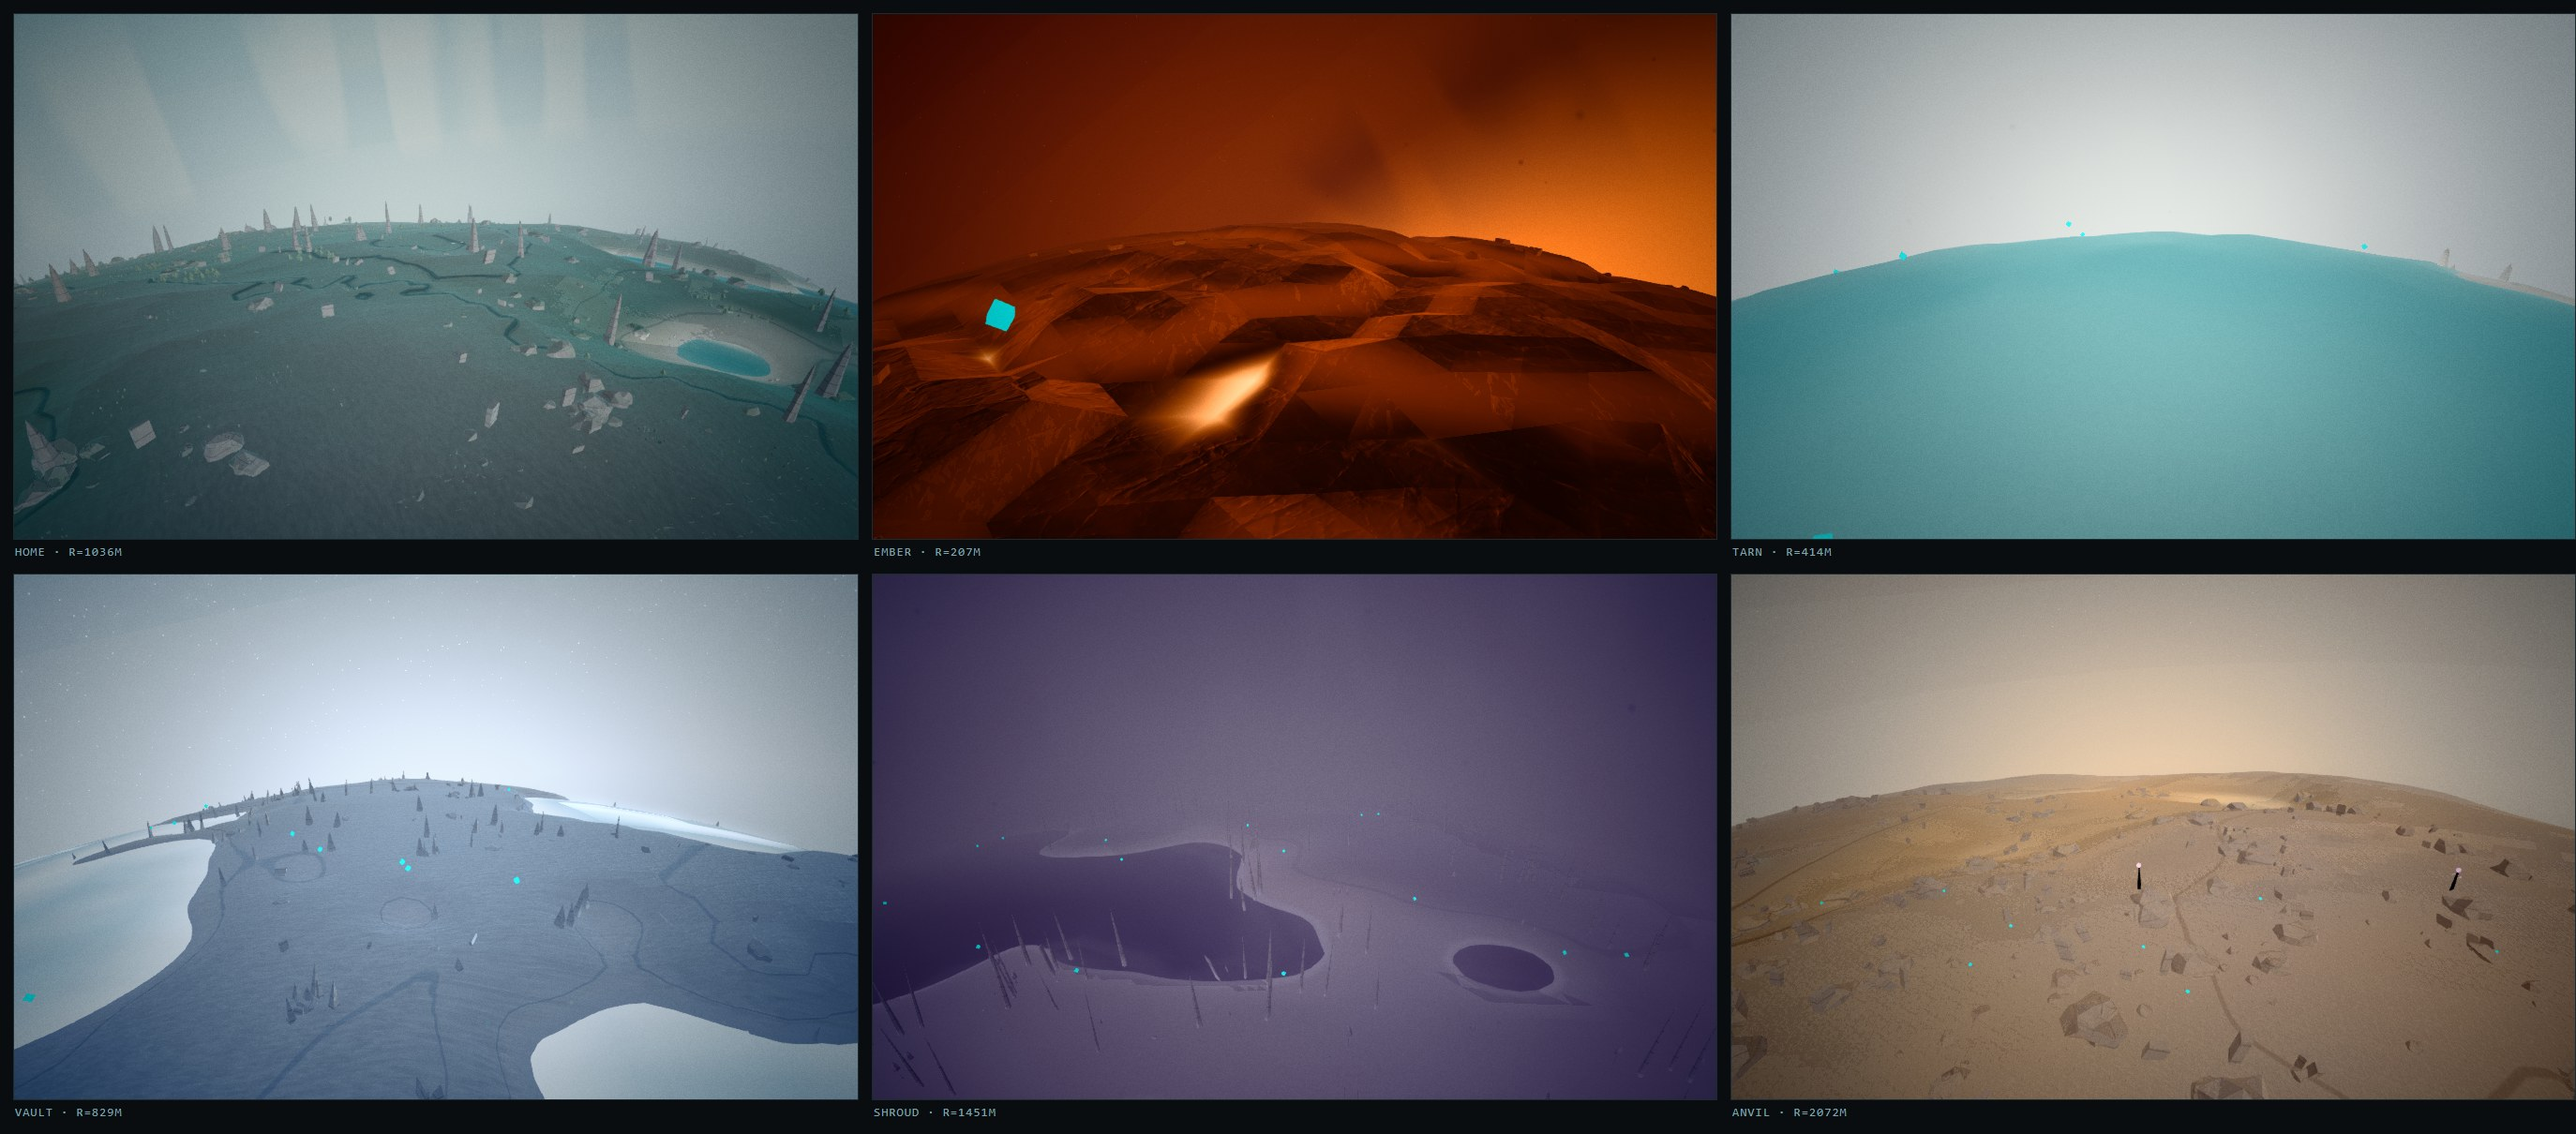
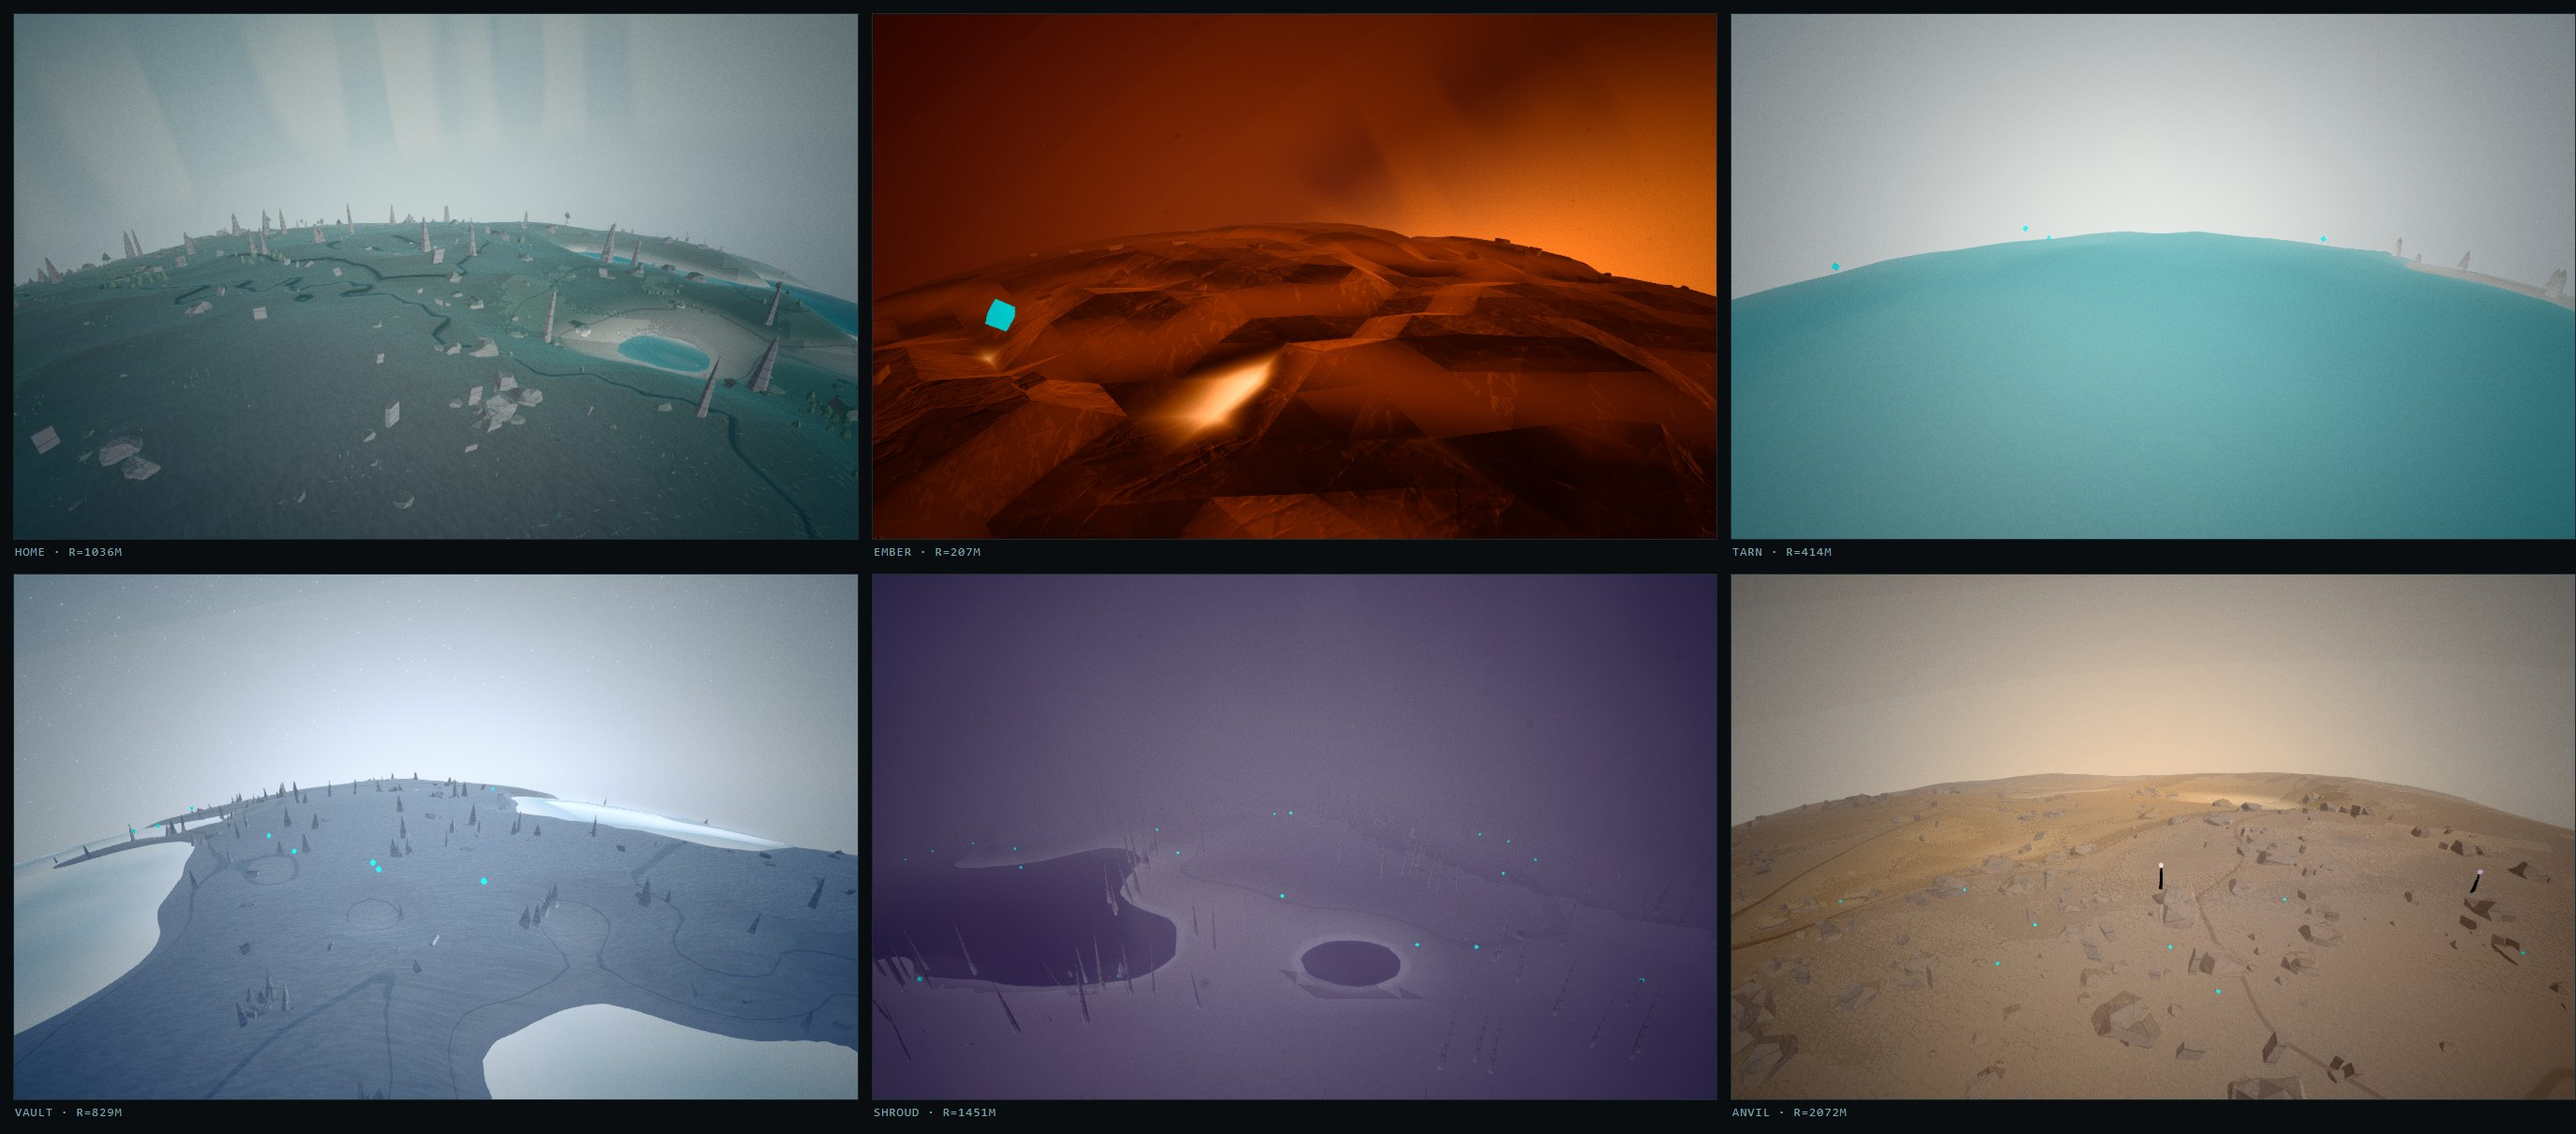
Surveyor: Shroud loses its tree layer, and the caching pattern gets a rule
Spans: games/surveyor, <root> — the CLAUDE.md rule generalises a bug class that
the surveyor changes are the third instance of, so it does not belong under
games/surveyor

SHROUD HAS NO TREE LAYER NOW. A tree layer is a canopy: enough of them at enough
density that a world reads as wooded, which is Home's job. A mid-density stand
of thin trees was turning the murk into a forest with poor visibility rather
than into a place you cannot see. The hero layer carries Shroud alone at 0.62,
nearly twice the density it has anywhere else and still under one plant per
leaf. Rare and large is the read.

TIER NOW DROPS `shrub` AND ONLY `shrub`. The first cut dropped hero too, on the
assumption that the biggest form must be the expensive one. It is the opposite:
hero is two attempts per leaf against cover's 260, so it is the cheapest layer
in the stack by two orders of magnitude and the highest value per triangle — it
is a landmark. It is not a uniform loss either, now that Shroud carries its
whole character there: a low tier would have been ground cover in fog with no
reason to look up.

CLAUDE.md GAINS A RULE for the bug class that has now cost three separate bugs —
the sky domes, Trails, and SURVEYOR.surface — every one an object reading
craft.surf.planet once in a constructor and then answering for the boot world
forever. Anything per-world is constructed inside World or re-pointed in swapTo,
and there is no third option. Never expose a cached copy of something that
[…]

diff --git a/games/surveyor/js/tune.js b/games/surveyor/js/tune.js
@@ -249,8 +249,16 @@ export const TIER = {
      between them they are what makes a world look planted at all.
      Degrading a layer instead would mean shipping a worse tree, and a
      worse tree is visible in a way a missing shrub is not. */
+  /* LOW DROPS `shrub` AND ONLY `shrub`.
+     The first cut dropped hero as well, on the assumption that the biggest form
+     must be the expensive one. It is the opposite: hero is authored at two
+     attempts per leaf against cover's 260, so it is the cheapest layer in the
+     stack by two orders of magnitude and the highest value per triangle — it is
+     a landmark. And dropping it is not a uniform loss. Shroud carries its whole
+     character in that layer and nothing else, so a low tier there would have
+     been ground cover in fog and no reason to look up. */
   floraLayers: {
-    low: ['cover', 'tree'],
+    low: ['cover', 'tree', 'hero'],
     high: ['cover', 'shrub', 'tree', 'hero'],
   },
 };
@@ -1895,21 +1903,24 @@ export const PLANETS = {
        growing rather than as a lawn, which is the only version of vegetation
        that belongs on a world whose whole character is that you cannot see.
        Violet, so it is the murk's own colour and not an import. */
-    /* SPARSE, TALL AND STRANGE. Low density, high impact: things that loom out
-       of the murk at close range and are gone again. Almost no ground cover —
-       a lawn under that fog would be invisible and would cost the same as one
-       you can see — and the trees are thin and very tall so they resolve as a
-       silhouette before anything else does. */
+    /* SPARSE, TALL AND STRANGE, and NO TREE LAYER.
+       A tree layer is a canopy: enough of them at enough density that the world
+       reads as wooded, which is Home's job. What Shroud wants is a few looming
+       things at low density — rare and large IS the read, and a mid-density
+       stand of thin trees was quietly turning the murk into a forest with poor
+       visibility rather than into a place you cannot see.
+       So the hero layer carries it alone, at nearly twice the density it has
+       anywhere else, and is still under one plant per leaf. Ground cover stays
+       at a tenth: a lawn under that fog would be invisible and would cost the
+       same as one you can see. */
     flora: {
       density: 1.0,
       layers: {
         cover: { density: 0.10, band: [0.02, 0.22], color: [0.396, 0.325, 0.478],
           height: [1.2, 3.0], width: [0.05, 0.10], lean: 0.42, colorMix: 0.62 },
-        tree:  { density: 0.22, band: [0.02, 0.34], color: [0.353, 0.294, 0.435],
-          height: [5.0, 9.0], girth: 0.018, taper: 0.4, sides: 5, tiers: 4,
-          canopy: 0.14, trunk: 0.55, slope: 0.42, colorMix: 0.70 },
-        hero:  { density: 0.35, band: [0.02, 0.30], color: [0.427, 0.341, 0.510],
-          height: [12.0, 18.0], girth: 0.014, canopy: 0.12, colorMix: 0.72 },
+        hero:  { density: 0.62, band: [0.02, 0.34], color: [0.427, 0.341, 0.510],
+          height: [13.0, 21.0], girth: 0.014, canopy: 0.12, sides: 5, tiers: 4,
+          trunk: 0.60, slope: 0.42, colorMix: 0.72 },
       },
     },
 

diff --git a/CLAUDE.md b/CLAUDE.md
@@ -64,6 +64,53 @@
   image's aspect ratio: that is what makes the caption and filmstrip jump on
   every arrow press.
 
+## An object that caches the world it was built for (three times now)
+
+This has cost three separate bugs in `games/surveyor/`, and each one looked like
+something else first. The shape is always the same:
+
+```js
+constructor(scene, craft) {
+  this.planet = craft.surf.planet;   // read once, at boot
+}
+```
+
+Nothing writes it again. The object then answers for **whichever world the tab
+opened on, forever**, and because most sessions never leave the first world it
+does not show up in play or in the harnesses.
+
+What it has cost:
+
+- **Sky domes.** `Worlds.get()` built a whole World per saved world at boot and
+  only `enter()` ever hid one, so a cold load with a save file drew six sky
+  domes at once. Read as a sun bug for three sessions.
+- **`Trails`.** Ember's ash and Shroud's murk were authored, resolved correctly,
+  and only ever built against the boot world. Flying to Ember got you Home's
+  drift in an ash storm.
+- **`SURVEYOR.surface`.** A module-level `const surface` in `main.js`, handed to
+  the dev harnesses, still pointing at the boot planet after any warp.
+  `dev/frames.mjs` frames its shots from it.
+
+**The rules that follow:**
+
+- **Anything per-world is constructed inside `World`, or it is re-pointed in
+  `swapTo`. There is no third option.** `World` is rebuilt per planet, so
+  everything it owns is correct by construction.
+- **Never expose a cached copy of something that changes.** `SURVEYOR.surface`
+  is a getter onto `craft.surf` now. A getter cannot go stale.
+- **Anything that moves the craft without flying it must say so.** A hyper
+  arrival teleports across the solar system in one frame, and objects that
+  integrate position — the wingtip `TrailMesh` was the one that bit — will
+  happily draw the jump. `Trails.resetJetTrails()` exists for exactly this.
+- **When a bug reproduces in a browser and not in a harness, suspect this
+  first**, then suspect the harness's own profile: every harness in `dev/`
+  launches Chrome on a throwaway `--user-data-dir`, so `localStorage` is empty
+  and every returning-player path is dark. `dev/savedworlds.mjs` and the
+  `--save` flag in `dev/savefile.mjs` exist to close that gap.
+
+Before adding a class that takes a `planet`, a `surface` or a palette: grep for
+`this.planet =` and `this.surf =` and check the new one against the list above.
+
 ## Image pipeline (do not regress)
 
 - `assets/` = masters (only copy of some art). `assets/derived/` = generated;

diff --git a/games/surveyor/README.md b/games/surveyor/README.md
@@ -324,13 +324,24 @@ up and 15m back and the rover is three metres long; 2.8-5.2m is a tree.
 |---|---|---|
 | home | all four | the lush one, and the first world anyone sees |
 | tarn | cover, shrub, tree | coastal, everything inside the first fifth of relief |
-| shroud | cover, tree, hero | sparse, tall, thin. Things looming out of murk |
+| shroud | cover, hero | rare and large. NO tree layer, deliberately |
 | anvil | cover, tree | a few tufts and stunted trees in the canyon floors |
 | ember, vault | none | and paying nothing |
 
-Tier drops **layers, not quality**: a low tier loses shrub and hero and keeps
-cover and tree. Shipping a worse tree would be visible in a way a missing shrub
-is not.
+**Shroud has no tree layer, and that is the point.** A tree layer is a canopy —
+enough of them at enough density that a world reads as wooded, which is Home's
+job. A mid-density stand of thin trees was quietly turning the murk into a
+forest with poor visibility rather than into a place you cannot see. The hero
+layer carries Shroud alone, at nearly twice the density it has anywhere else and
+still under one plant per leaf.
+
+Tier drops **layers, not quality**, and it drops `shrub` and only `shrub`. The
+first cut dropped hero too, assuming the biggest form must be the expensive one.
+It is the opposite: hero is two attempts per leaf against cover's 260, so it is
+the cheapest layer in the stack by two orders of magnitude and the highest value
+per triangle — it is a landmark. And dropping it is not a uniform loss, because
+Shroud now carries its whole character there: a low tier would have been ground
+cover in fog with no reason to look up.
 
 ### Why there are no downloaded models, in numbers
 
